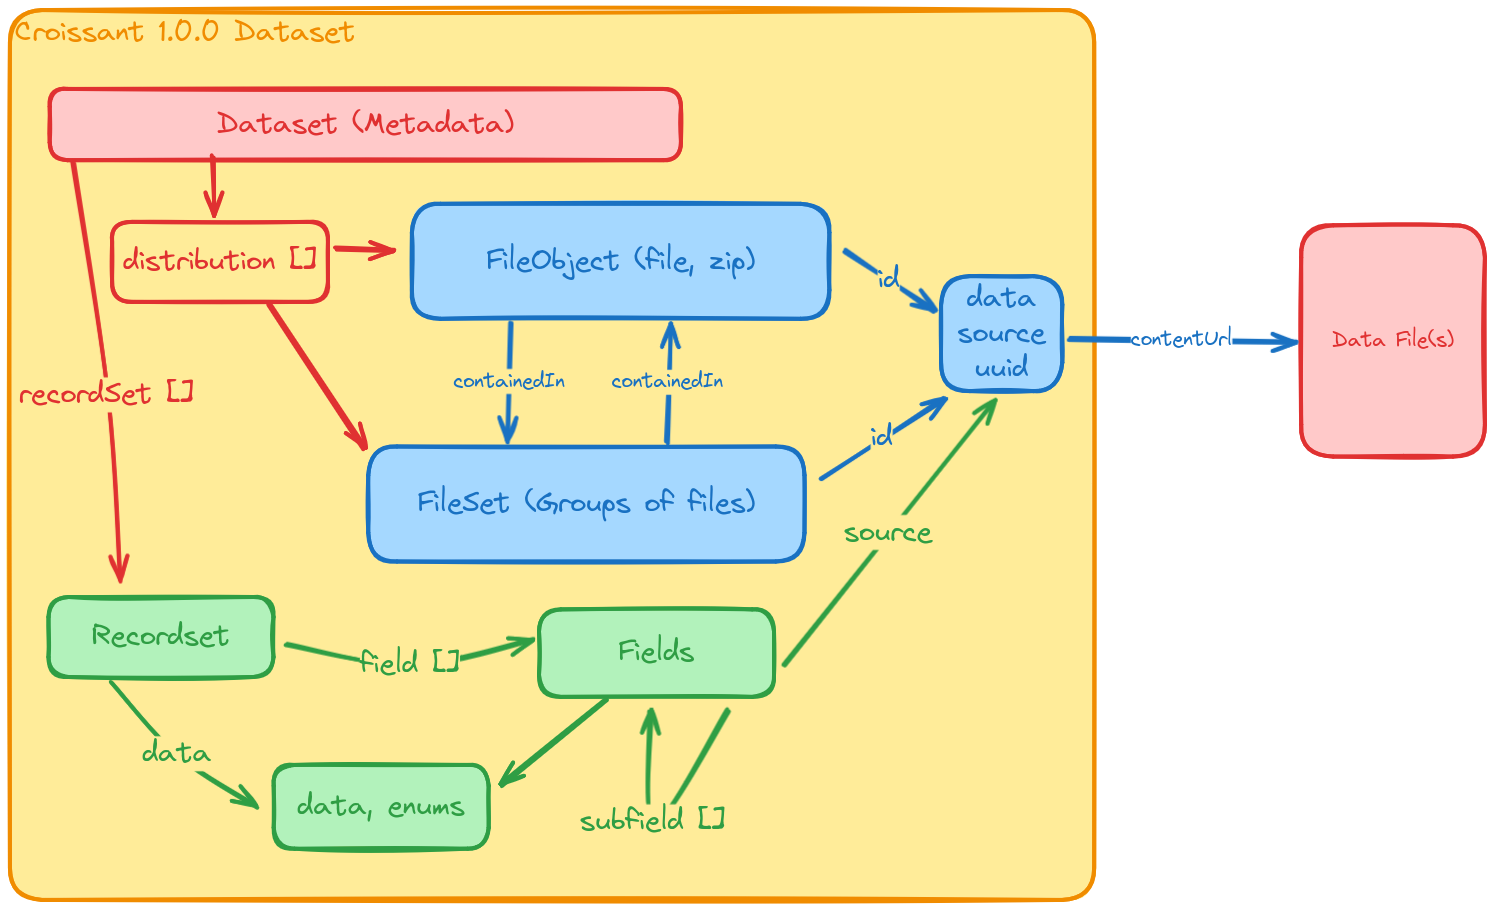
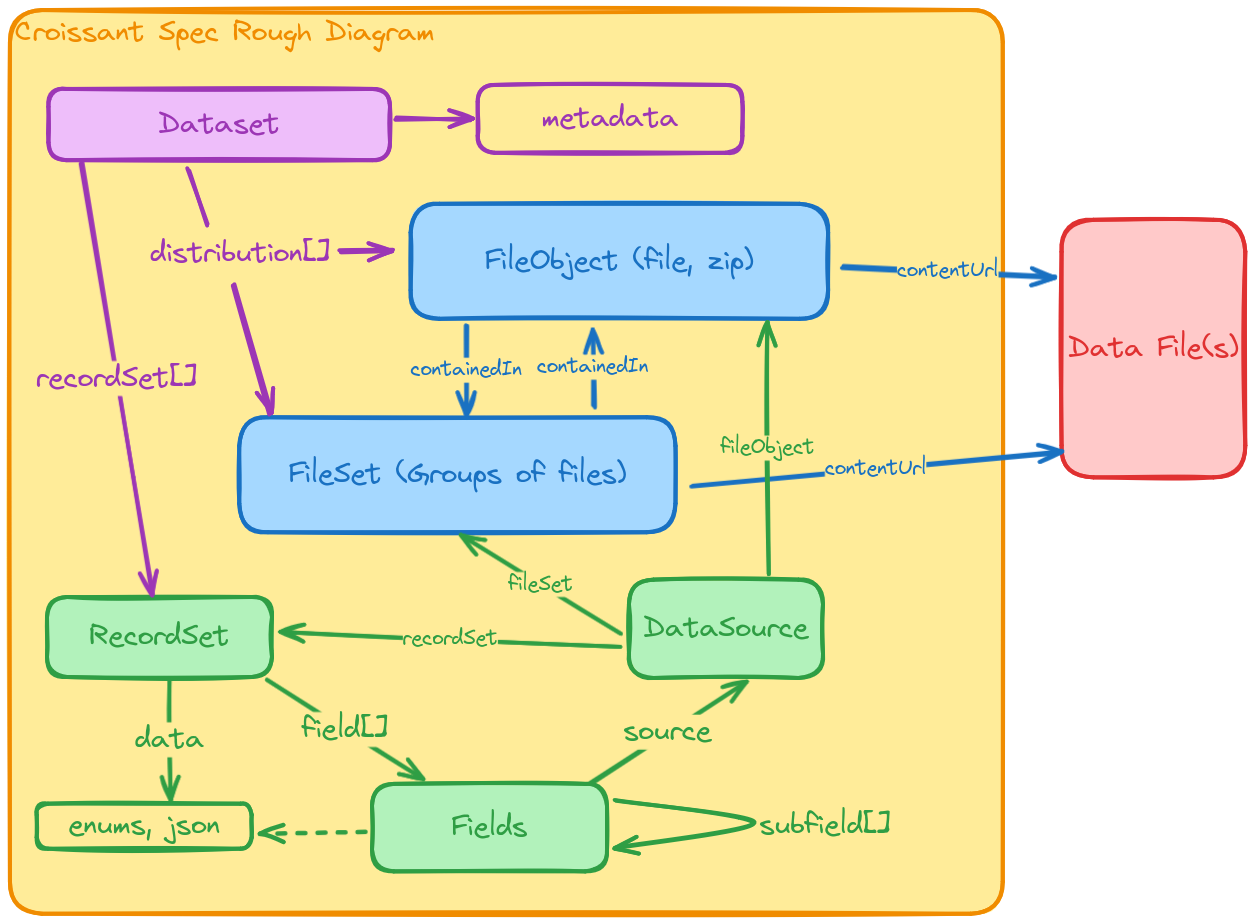
croissant notes

diff --git a/_drafts/croissant.md b/_drafts/croissant.md
@@ -11,12 +11,9 @@ Spec: https://docs.mlcommons.org/croissant/docs/croissant-spec.html
 
 Website: https://mlcommons.org/working-groups/data/croissant/
 
-Intro:
+TRTL Lang Definition: [github.com/mlcommons/croissant/docs/croissant.ttl](https://github.com/mlcommons/croissant/blob/main/docs/croissant.ttl)
 
-> Datasets are the basis of machine learning (ML). However, a lack of standardization in the description and semantics of ML datasets has made it increasingly difficult for researchers and practitioners to explore, understand, and use all but a small fraction of popular datasets.
-> 
-> The Croissant metadata format simplifies how data is used by ML models. It provides a vocabulary for dataset attributes, streamlining how data is loaded across ML frameworks such as PyTorch, TensorFlow or JAX. In doing so, Croissant enables the interchange of datasets between ML frameworks and beyond, tackling a variety of discoverability, portability, reproducibility, and responsible AI (RAI) challenges.
-
+The croissant spec is designed to provide a standard way to describe datasets properties, raw file relationships, and derived dataset attributes.
 The croissant format roughly consists of 3 parts:
 
 | Type                | Desc.                                                                                 | Objects                            |
@@ -26,19 +23,83 @@ The croissant format roughly consists of 3 parts:
 | structure+semantics | data structure and resource processing guides                                         | `RecordSet`, `Field`, `DataSource` |
 
 
-![alt text](images/croissant/croissant-1-spec.png)
+![A simplified diagram of the croissant spec](images/croissant/croissant-1-spec.png)
+> A simplified diagram of the croissant spec
 
 
-Join
-
-data structures possible and not possible
+## Metadata
 
 
+Builds on [schema.org/Dataset](https://docs.mlcommons.org/croissant/docs/croissant-spec.html#schemaorgdataset).
 
+The following list of properties from schema.org must be specified for every Croissant dataset.
 
+| Property       | ExpectedType         | Cardinality | Comments                                                                                                                                              |
+| -------------- | -------------------- | ----------- | ----------------------------------------------------------------------------------------------------------------------------------------------------- |
+| @context       | URL                  | ONE         | A set of JSON-LD context definitions that make the rest of the Croissant description less verbose. See the recommended JSON-LD context in Appendix 1. |
+| @type          | Text                 | ONE         | The type of a croissant dataset must be schema.org/Dataset.                                                                                           |
+| dct:conformsTo | URL                  | ONE         | Croissant datasets must declare that they conform to the versioned schema: http://mlcommons.org/croissant/1.0                                         |
+| description    | Text                 | ONE         | Description of the dataset.                                                                                                                           |
+| license        | CreativeWork, URL    | MANY        | The license of the dataset. Croissant recommends using the URL of a known license, e.g., one of the licenses listed at https://spdx.org/licenses/.    |
+| name           | Text                 | ONE         | The name of the dataset.                                                                                                                              |
+| url            | URL                  | ONE         | The URL of the dataset. This generally corresponds to the Web page for the dataset.                                                                   |
+| creator        | Organization, Person | MANY        | The creator(s) of the dataset.                                                                                                                        |
+| datePublished  | Date, DateTime       | ONE         | The date the dataset was published.                                                                                                                   |
 
+>[Source](https://docs.mlcommons.org/croissant/docs/croissant-spec.html#required)
 
+The metadata for the dataset is stored in the root of the croissant file.
+A URL is required to link to where the dataset can be found.
+While only one can be set, there is also a `sameAs` field that allows pointing to matching datasets with different URLs (http, s3, ipfs, onion, etc). 
 
+A `keywords` field allows adding text and links about the dataset, perfect for tags or references.
+
+Versioning and `isLiveDataset` attributes allow the dataset the change over time.
+Changes to the dataset should be constrained to updating or creating, not deleting.
+It is best utilized to add additional data and improve `RecordSet` information.
+If the structure of the data is also changing it is probably better to create new, separate datasets.
+
+## Resources
+
+Resources refer to the actual files of the dataset.
+Items are either a `FileObject` or a `FileSet`.
+A `FileObject` is a single item, and `FileSet` is one or more items matching a glob pattern.
+
+They are able to reference each other via the `containedIn` property.
+This is useful for referencing compressed files like `.zip` and `.tar.gz`.
+A `Fileset` entry and be created for the contents of a `.zip`, which is stored as a `FileObject`.
+This allows for storing the dataset compressed with the croissant file guiding individual file extraction.
+
+## RecordSets
+
+> A RecordSet describes a set of structured records obtained from one or more data sources (typically a file or set of files) and the structure of these records, expressed as a set of fields (e.g., the columns of a table). A RecordSet can represent flat or nested data.
+
+`RecordSets` do not reference resources directly.
+Instead, they group `Field`s together which in turn reference resources.
+This allows `RecordSets` to span multiple files, though that  definitely introduces additional complexity.
+
+The `Field` object encodes information about dataset fields such as name, types, and extraction method.
+They are able to reference other `Field`s and `RecordSet`s to represent complex data relationships.
+Each field has a `source` property that references either a `DataSource` object or a URL.
+`DataSource` link a `Field` to associated `RecordSet`s and `File*` resources, acting as a focal point describing what's required to view a given `RecordSet`.
+
+The `RecordSet`-related types are primarily designed for column data, but the referencing allows for describing more complex data structures.
+An open-ended `data` field allows encoding data as JSON and reference it from `Field`s for properties like enums and categories.
+
+## Ecosystem Tools
+
+There is of course the [spec repository](https://github.com/mlcommons/croissant/tree/main) which contains the code for:
+
+* [mlcroissant](https://github.com/mlcommons/croissant/tree/main/python/mlcroissant) Python library, with [cli tool](https://github.com/mlcommons/croissant/blob/main/python/mlcroissant/mlcroissant/scripts/validate.py)
+* [web editor](https://github.com/mlcommons/croissant/tree/main/editor), which is live at [huggingface.co/spaces/MLCommons/croissant-editor](https://huggingface.co/spaces/MLCommons/croissant-editor) with login
+* links to croissant [tools integrations](https://github.com/mlcommons/croissant#integrations)
+
+## Conclusion
+
+Most of what I found focused on using croissant files in data pipelines, not creating them.
+Dataset management. tools and platforms integrate croissant as plugins to the system instead of creating distinct croissant tools.
+A croissant file is not the primary dataset management or export format for for applications.
+Instead, it is positioned as an "interchange format" for datasets.
 
 
 
